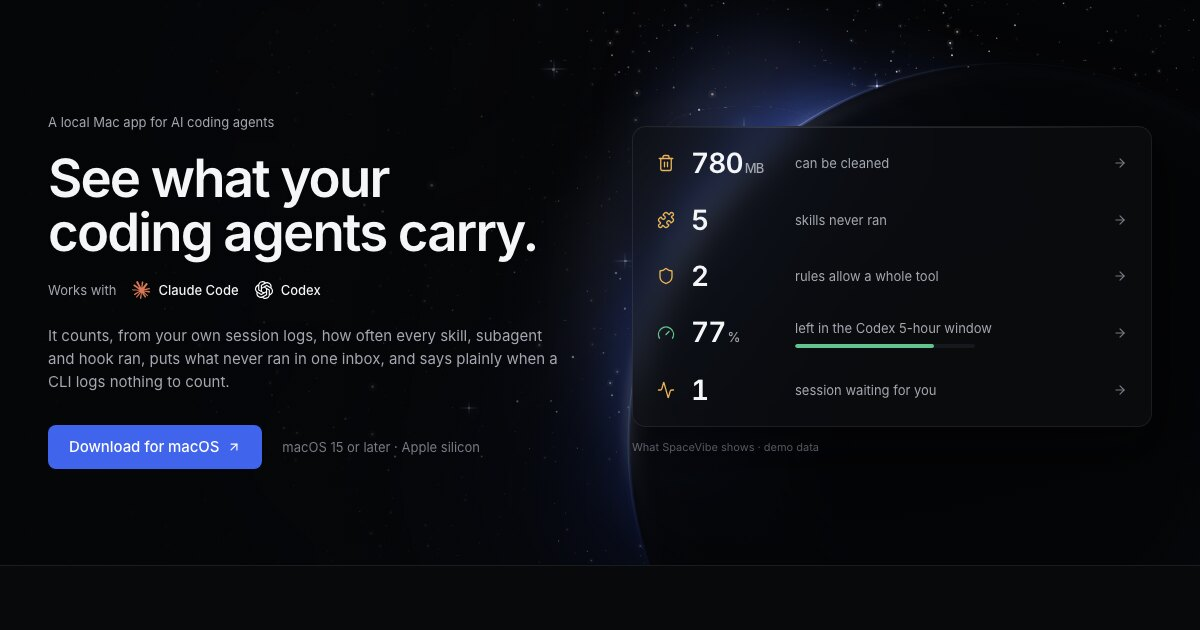
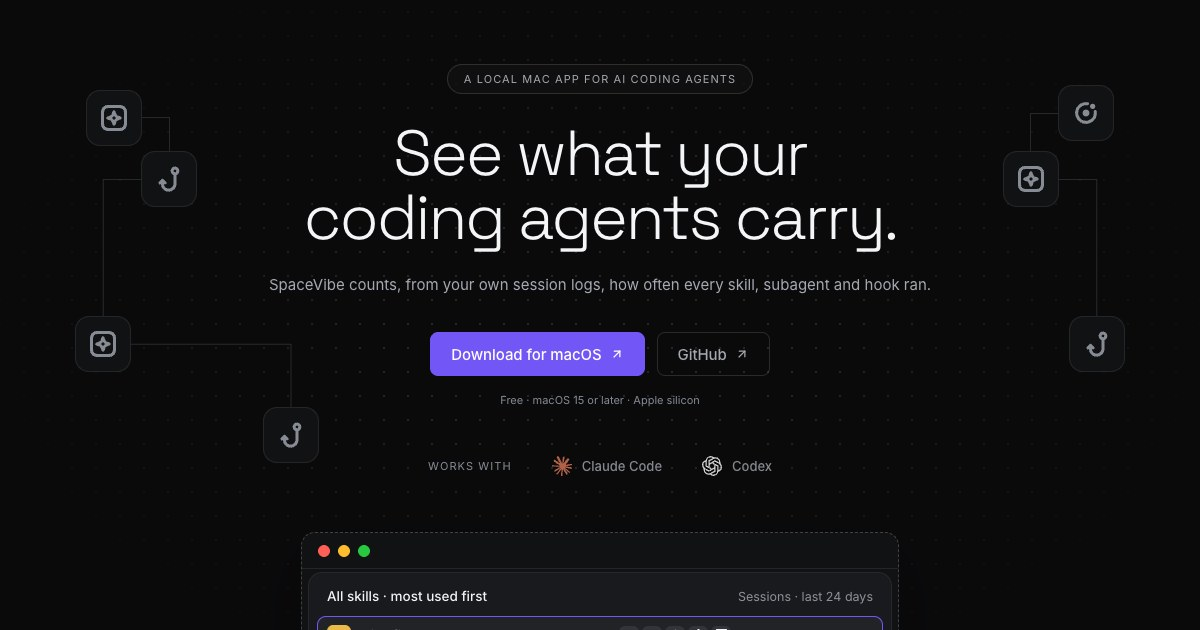
test(site): facts test for the redesign, new og image, audit and break-test fixes (LR-T7, LR-T8)

diff --git a/site/components/landing/bands.tsx b/site/components/landing/bands.tsx
@@ -94,7 +94,7 @@ function Visual({ band }: { readonly band: Band }) {
       </div>
 
       {/* The one floating figure of the screen (the reference's "$4,546" card). It hangs over the card's lower edge, under the frame, so it covers no pixel of the drawing and not the caption. */}
-      <div className="card relative z-10 -mt-14 ml-4 w-fit min-w-[200px] bg-s2 px-5 py-4 shadow-lift max-xl:self-start xl:absolute xl:-bottom-12 xl:left-8 xl:mt-0 xl:ml-0">
+      <div className="card relative z-10 -mt-14 ml-4 w-fit min-w-[200px] max-w-[min(300px,calc(100%-2rem))] bg-s2 px-5 py-4 shadow-lift max-xl:self-start xl:absolute xl:-bottom-12 xl:left-8 xl:mt-0 xl:ml-0">
         <p className={`display text-stat tnum ${TONE[reading.tone]}`}>
           <span role="img" aria-label={reading.figure}>
             <span aria-hidden="true" data-count={reading.figure}>
@@ -122,7 +122,7 @@ function Ledger({ ledger }: { readonly ledger: Record<CLI, CliLine> }) {
               <span translate="no" className="inline-flex items-center gap-2 text-sec font-medium text-ink-0">
                 <Image src={CLI_MARK[cli]} alt="" width={14} height={14} className="size-3.5 shrink-0" />
                 {CLI_LABEL[cli]}
-              </span>
+              </span>{" "}
               <span className="inline-flex items-center gap-1.5 text-sec font-medium text-ink-0">
                 <Icon size={14} strokeWidth={2} aria-hidden="true" className={`shrink-0 ${tone}`} />
                 {line.verdict}

diff --git a/site/components/landing/content.ts b/site/components/landing/content.ts
@@ -17,12 +17,12 @@ export const SITE = {
   title: "SpaceVibe — see what your coding agents carry",
   description:
     "A local Mac app that shows every skill, subagent and hook Claude Code and Codex carry, how often each ran, what each may do, and what it cost. Nothing leaves the machine.",
-  // The first viewport at 1200 x 630 without the header, saved from the built page; retake it when the hero changes.
+  // The first viewport at 1200 x 630 without the announcement bar and the header, saved from the built page (headless Chrome, header and bar removed, 1200 wide); retake it when the hero changes.
   ogImage: {
     src: "/og.jpg",
     width: 1200,
     height: 630,
-    alt: "SpaceVibe: See what your coding agents carry. Beside the headline, five readings: 780 MB can be cleaned, 5 skills never ran, 2 rules allow a whole tool, 77% left in the Codex 5-hour window, 1 session waiting for you.",
+    alt: "SpaceVibe: See what your coding agents carry. Under the headline, the Download for macOS button and GitHub, the line \"Free, macOS 15 or later, Apple silicon\", Claude Code and Codex under \"Works with\", and the top of the Skills list drawn in a window, between icon tiles for skills, subagents and hooks.",
   },
 } as const;
 

diff --git a/site/components/landing/figures.tsx b/site/components/landing/figures.tsx
@@ -31,7 +31,7 @@ export function Figures() {
               <dt className="text-label uppercase text-ink-2">{item.label}</dt>
               {/* The number, then its note on its own line below md:, so the three notes sit at the same place on a phone. */}
               <dd className="grid gap-3 md:flex md:items-baseline md:gap-x-6">
-                <span className="display tnum text-figure text-ink-0">{item.value}</span>
+                <span className="display tnum text-figure text-ink-0">{item.value}</span>{" "}
                 <span className="max-w-[360px] text-sec text-ink-1">{item.note}</span>
               </dd>
             </div>

diff --git a/site/components/landing/site-header.tsx b/site/components/landing/site-header.tsx
@@ -22,7 +22,7 @@ export function SiteHeader() {
             href={ANNOUNCE.link.href}
             target="_blank"
             rel="noopener noreferrer"
-            className="group inline-flex items-center gap-1 font-medium text-accent-text no-underline hover:text-ink-0"
+            className="group inline-flex min-h-6 items-center gap-1 font-medium text-accent-text no-underline hover:text-ink-0"
           >
             {ANNOUNCE.link.label}
             <ArrowRight size={12} aria-hidden="true" className="transition-transform duration-150 ease-out group-hover:translate-x-0.5" />

diff --git a/site/app/globals.css b/site/app/globals.css
@@ -171,6 +171,16 @@
     color: var(--color-ink-0);
     text-wrap: balance;
   }
+
+  /* A word longer than its column (a long skill name or path in copy) breaks instead of widening the page. */
+  h1,
+  h2,
+  h3,
+  p,
+  dd,
+  summary {
+    overflow-wrap: anywhere;
+  }
 }
 
 /* Page frame: 1280px cap, 48px gutters on desktop, 28px on tablets (768 to 1023px), 20px on phones. */

diff --git a/site/README.md b/site/README.md
@@ -9,7 +9,7 @@ The public page for `spacevibe.dev`: Next.js 16 (App Router, static export) and 
 | `npm run lint`  | ESLint                                                    |
 | `node --test tests/*.test.mjs` | `vercel.json` redirects (live family, old Hub routes, no shadowing) and the landing facts |
 
-Layout: `app/` (layout, page, `globals.css` tokens), `components/landing/` (one file per section; `content.ts` holds every word of `/`, `app-stage/` the app drawn as HTML from the Kanu renders (design previews, L37), `band-icon.tsx` a hand copy of the app's page icons from [`Resources/PageIcons.json`](../Resources/PageIcons.json): no script writes it, so a page icon that changes is changed in both), `public/landing/` (`brand/` holds the CLI marks).
+Layout: `app/` (layout, page, `globals.css` tokens), `components/landing/` (one file per section; `content.ts` holds every word of `/`, `app-stage/` the app drawn as HTML from the Kanu renders (design previews, L37), `band-icon.tsx` a hand copy of the app's page icons from [`Resources/PageIcons.json`](../Resources/PageIcons.json): no script writes it, so a page icon that changes is changed in both), `public/landing/` (`brand/` holds the CLI marks), and `public/og.jpg`, the first viewport of the built page at 1200 x 630 without the bar and the header (retake it when the hero changes). Motion lives in `motion.tsx`: five once-only effects, final values in the server HTML.
 
 The app drawings use the Kanu renders' synthetic illustration data, never a real `~/.claude`; every frame is captioned "Design preview · not in the current download" (L7).
 
@@ -17,4 +17,4 @@ The app drawings use the Kanu renders' synthetic illustration data, never a real
 
 Deploy: the Vercel project is `spacevibe` in the team `mxrsv-dev` (Next.js preset, Root Directory `site`, Node 24.x), created 2026-11-24 and not connected to Git, so a push deploys nothing. A deployment is made with `vercel deploy` from the repository root of a clean export of the commit (`git archive <commit> | tar -x -C <folder>`, then `vercel link --yes --team mxrsv-dev --project spacevibe` there, which keeps `.vercel/` and the `.env.local` it writes out of this checkout). Two traps: the first deployment of a project becomes its production deployment even without `--prod`, and Vercel then adds a `*.vercel.app` address that is public, because the project's protection covers every address except the project's own domains; that address was removed, and `vercel curl <url>` reads a protected deployment (it adds a bypass secret to the project: remove it afterwards). The gates before `spacevibe.dev` points here are in the landing spec.
 
-Routes: `/` only, plus the dark `404.html` from `app/not-found.tsx`. It is the Two CLIs direction the owner picked (L16), with the hero picked on 2026-11-23 (L17); requirements, what is inferred and the deploy gates are in the [landing spec](../docs/specs/2026-11-05-spacevibe-landing.md#deploy-gates).
+Routes: `/` only, plus the dark `404.html` from `app/not-found.tsx`. It is the redesign the owner picked on 2026-11-27 (L21 to L39: violet accent, Space Grotesk display face, the app drawn as HTML, four bands: Skills, Subagents, Hooks, Rules); requirements, what is inferred and the deploy gates are in the [landing spec](../docs/specs/2026-11-05-spacevibe-landing.md#deploy-gates).
